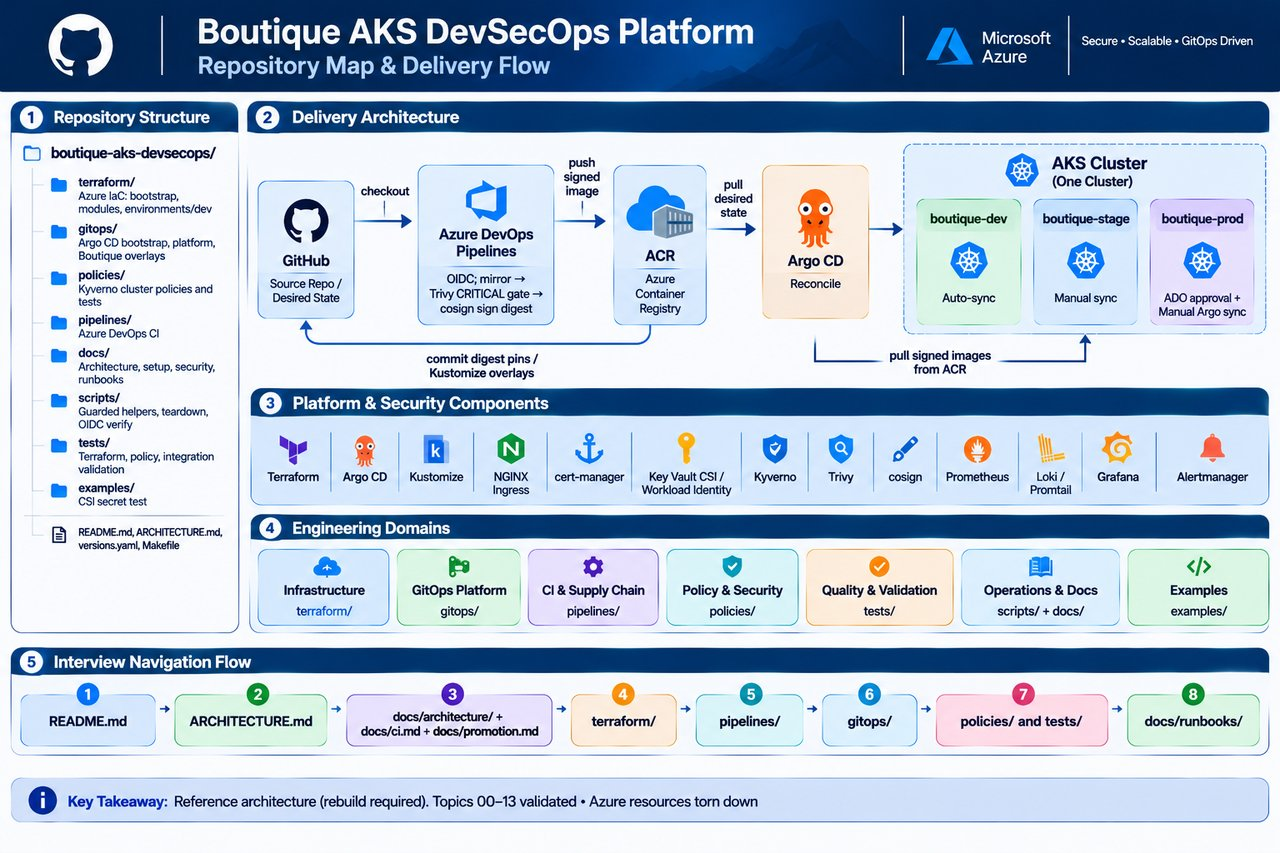
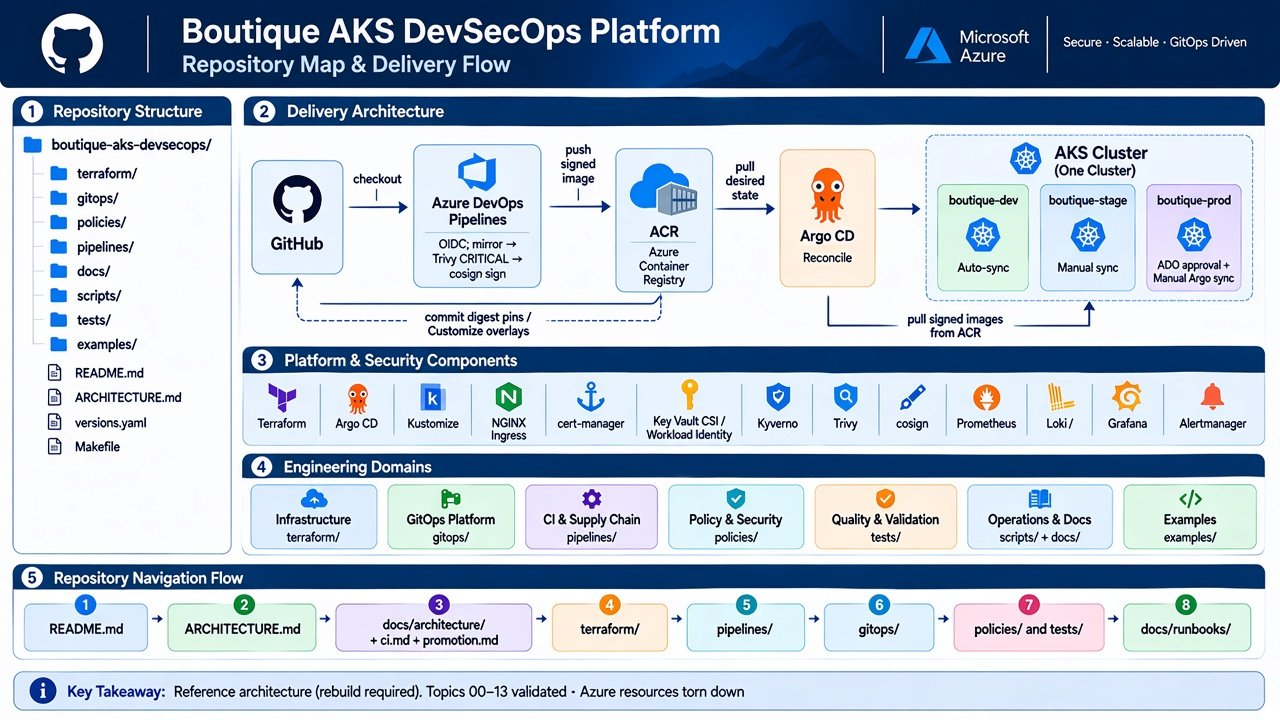
Polish docs after re-audit P1–P3.
Refresh the repository map navigation label, tighten ops/screenshot honesty, and trim decorative bold in setup and ADRs.

diff --git a/docs/setup/05-gitops-bootstrap.md b/docs/setup/05-gitops-bootstrap.md
@@ -1,10 +1,10 @@
 # 05 — GitOps Bootstrap
 
 Audience: Implementer
-**Estimated time:** 90 minutes
-**Prerequisites:** [03-cluster-resources.md](03-cluster-resources.md) ✅ complete (Topic 04 recommended before CI, not blocking GitOps)
-**Creates:** Argo CD v2.10.7, AppProjects, root app-of-apps, platform/apps root Applications
-**Related ADRs:** [0004](../adr/0004-argocd-gitops.md)
+Estimated time: 90 minutes
+Prerequisites: [03-cluster-resources.md](03-cluster-resources.md) ✅ complete (Topic 04 recommended before CI, not blocking GitOps)
+Creates: Argo CD v2.10.7, AppProjects, root app-of-apps, platform/apps root Applications
+Related ADRs: [0004](../adr/0004-argocd-gitops.md)
 
 ---
 
@@ -14,7 +14,7 @@ When this topic is complete, Argo CD runs in the `argocd` namespace, three AppPr
 
 ## Why this topic is required
 
-All platform services (ingress, cert-manager, Kyverno, monitoring) and Boutique overlays deploy via GitOps. Argo CD is the reconciliation engine. The app-of-apps pattern keeps bootstrap repeatable: one `root` Application manages `platform-root` and `apps-root` children.
+Platform and Boutique workloads reconcile from Git via Argo CD; the root app-of-apps bootstraps `platform-root` and `apps-root` in one repeatable pass.
 
 ---
 
@@ -233,7 +233,7 @@ Edit these files — use the **same** `repoURL` everywhere:
 - All `gitops/platform/*/Application.yaml` (and `kyverno/policies-application.yaml`)
 - All `gitops/apps/boutique/*-application.yaml` (Topics 10–12)
 
-**GitHub `repoURL` format:**
+GitHub `repoURL` format:
 
 ```text
 https://github.com/<GITHUB_ORG>/<REPO_NAME>
@@ -261,7 +261,7 @@ git push origin main
 
 ### Register private GitHub repo credentials (if repo is private)
 
-**Platform:** Argo CD UI or CLI
+Platform: Argo CD UI or CLI
 
 1. Settings → Repositories → Connect repo
 2. Choose VIA HTTPS
@@ -278,7 +278,7 @@ argocd repo add "https://github.com/<GITHUB_ORG>/<REPO_NAME>" \
   --username <github-user> --password <GITHUB_PAT>
 ```
 
-**Public repositories:** Argo CD can sync without credentials if the repo is public.
+Public repositories: Argo CD can sync without credentials if the repo is public.
 
 ### Validation
 
@@ -373,7 +373,7 @@ kubectl get pods -n argocd
 kubectl get appprojects,applications -n argocd
 ```
 
-**Success criteria:**
+Success criteria:
 
 - [ ] Argo CD v2.10.x running
 - [ ] AppProjects: platform, applications, monitoring
@@ -381,7 +381,7 @@ kubectl get appprojects,applications -n argocd
 - [ ] Repository connection successful
 - [ ] Admin UI accessible (port-forward)
 
-**Screenshot reference** (Healthy / Synced applications):
+Screenshot reference (lived run: Synced + Healthy filter; visible cards include `apps-root`, `platform-root`, `cert-manager-issuer`, `monitoring-extras`, `otel-collector`, `promtail` — all still defined under `gitops/`):
 
 ![Argo CD applications Healthy](../../assets/images/setup/05-argocd-applications-healthy.png)
 

diff --git a/docs/setup/09-ci-pipeline.md b/docs/setup/09-ci-pipeline.md
@@ -10,11 +10,11 @@ Related ADRs: [0005](../adr/0005-cosign-key-based-signing.md), [0009](../adr/000
 
 ## Topic goal
 
-When this topic is complete, your ADO CI pipeline mirrors all 11 Online Boutique v0.10.5 service images from Google Artifact Registry to ACR, runs Trivy with a **CRITICAL** severity gate, and cosign-signs each image **by digest** with `--tlog-upload=false`. The cosign **public key belongs in Git** (Kyverno policy `02-verify-image-signatures.yaml`) so admission can verify signed workloads in Topic 10.
+When this topic is complete, your ADO CI pipeline mirrors all 11 Online Boutique v0.10.5 service images from Google Artifact Registry to ACR, runs Trivy with a CRITICAL severity gate, and cosign-signs each image by digest with `--tlog-upload=false`. The cosign public key **belongs in Git** (Kyverno policy `02-verify-image-signatures.yaml`) so admission can verify signed workloads in Topic 10.
 
 ## Why this topic is required
 
-Kyverno enforces the ACR allowlist and signature verification at admission time. Images must land in your registry and be signed before Boutique deploys. This pipeline is the supply-chain gate between upstream Google images and your cluster.
+Kyverno admission requires mirrored, signed ACR images before Boutique deploys — this pipeline is the gate between upstream Google images and the cluster.
 
 ---
 
@@ -391,7 +391,7 @@ Full reference: [docs/troubleshooting/pipeline-failures.md](../troubleshooting/p
 - [ ] 11 Boutique v0.10.5 images in ACR, signed by digest
 - [ ] `digest-manifest` artifact published
 
-**Screenshot references:**
+Screenshot references:
 
 ADO pipeline green (mirror / Trivy / cosign):
 
@@ -405,7 +405,7 @@ ACR repositories with `frontend` `v0.10.5` and digest tags:
 
 ## Next step
 
-**Topic 10 — Boutique dev deploy:** GitOps manifests for dev namespace, image digests from ACR, ingress at `dev-boutique.biroltilki.art`.
+Topic 10 — Boutique dev deploy: GitOps manifests for dev namespace, image digests from ACR, ingress at `dev-boutique.biroltilki.art`.
 
 Guide: [10-boutique-dev.md](10-boutique-dev.md)
 

diff --git a/docs/adr/0012-loki-in-cluster-logging.md b/docs/adr/0012-loki-in-cluster-logging.md
@@ -6,22 +6,22 @@ Accepted
 
 ## Context
 
-Azure Log Analytics bills primarily on **ingestion volume**. For a solo test, Container Insights and platform diagnostic settings can cost more than the rest of the stack combined with little benefit — metrics and dashboards already run in-cluster via kube-prometheus-stack (Prometheus + Grafana).
+Azure Log Analytics bills primarily on ingestion volume. For a solo test, Container Insights and platform diagnostic settings can cost more than the rest of the stack combined with little benefit — metrics and dashboards already run in-cluster via kube-prometheus-stack (Prometheus + Grafana).
 
 The project needs centralized log search in Grafana for platform and Boutique troubleshooting without recurring Azure Monitor ingestion charges.
 
 ## Decision
 
 1. **Do not deploy** a Log Analytics workspace or Container Insights (`oms_agent`) in the default test path.
-2. Deploy **Grafana Loki** (SingleBinary) and **Promtail** via GitOps under `gitops/platform/monitoring/`.
-3. Configure Grafana with a **Loki datasource** alongside Prometheus.
+2. Deploy Grafana Loki (SingleBinary) and Promtail via GitOps under `gitops/platform/monitoring/`.
+3. Configure Grafana with a Loki datasource alongside Prometheus.
 4. Keep the `terraform/modules/diagnostics/` module in the repo for optional future use but **do not wire it** in `terraform/environments/dev/main.tf`.
 
 ## Consequences
 
 - **Positive:** No Log Analytics ingestion cost; unified logs + metrics in Grafana; logs stay in-cluster.
 - **Negative:** No Azure Portal audit trail for AKS API / ACR / Key Vault diagnostic logs; Loki uses cluster disk and node resources (~10Gi PVC + Promtail DaemonSet overhead).
-- **Operational:** Use Grafana **Explore → Loki** or `{namespace="boutique-dev"}` LogQL queries; `kubectl logs` remains valid for ad-hoc checks.
+- **Operational:** Use Grafana Explore → Loki or `{namespace="boutique-dev"}` LogQL queries; `kubectl logs` remains valid for ad-hoc checks.
 
 ## References
 

diff --git a/docs/setup/08-admission-policies.md b/docs/setup/08-admission-policies.md
@@ -1,10 +1,10 @@
 # 08 — Admission Policies (Kyverno)
 
 Audience: Implementer
-**Estimated time:** 120 minutes
-**Prerequisites:** [05-gitops-bootstrap.md](05-gitops-bootstrap.md) ✅ · [07-secrets-csi.md](07-secrets-csi.md) recommended (remove `csi-test` pod before enforce)
-**Creates:** Kyverno 1.12.6, ClusterPolicies (baseline five + Topic 17 SBOM attest Audit), policy test suite
-**Related ADRs:** [0003](../adr/0003-kyverno-admission.md), [0005](../adr/0005-cosign-key-based-signing.md)
+Estimated time: 120 minutes
+Prerequisites: [05-gitops-bootstrap.md](05-gitops-bootstrap.md) ✅ · [07-secrets-csi.md](07-secrets-csi.md) recommended (remove `csi-test` pod before enforce)
+Creates: Kyverno 1.12.6, ClusterPolicies (baseline five + Topic 17 SBOM attest Audit), policy test suite
+Related ADRs: [0003](../adr/0003-kyverno-admission.md), [0005](../adr/0005-cosign-key-based-signing.md)
 
 ---
 
@@ -14,7 +14,7 @@ When this topic is complete, Kyverno enforces cluster admission policies: ACR al
 
 ## Why this topic is required
 
-Admission control is the runtime enforcement layer for supply-chain decisions. **CI (Topic 09) signs images; Kyverno ensures only compliant workloads run.** Without admission, unsigned or public-registry images could deploy despite pipeline gates.
+Admission control is the runtime enforcement layer for supply-chain decisions: Topic 09 signs images; Kyverno ensures only compliant workloads run. Without admission, unsigned or public-registry images could deploy despite pipeline gates.
 
 ---
 
@@ -278,7 +278,7 @@ cd policies/tests && kyverno test kyverno-test.yaml
 kubectl apply -f policies/tests/resources/deny-non-acr-image.yaml --dry-run=server
 ```
 
-**Success criteria:**
+Success criteria:
 
 - [ ] Kyverno Healthy
 - [ ] Five ClusterPolicies active

diff --git a/docs/setup/00-prerequisites.md b/docs/setup/00-prerequisites.md
@@ -37,13 +37,11 @@ Do not use this guide for day-2 cluster operations — see [docs/operations/](..
 
 Required knowledge: basic shell, Git, and cloud CLI usage. No prior AKS experience required.
 
-Version control: GitHub is the sole Git remote (local clone, Argo CD, and ADO pipelines). Azure DevOps is for CI and OIDC only — not Azure Repos.
-
-Git remote note: GitOps manifests, Argo CD Applications, and pipeline checkout use GitHub. Connect your repository in Topic 00 Step 4; patch `<GITHUB_ORG>` / `<REPO_NAME>` in GitOps YAML during Topics 05–12. Azure DevOps (Topics 04 and 09) connects to the same GitHub repo for pipeline runs and digest promotion pushes.
+Version control: GitHub is the sole Git remote (clone, Argo CD, ADO pipelines, digest promotion). Azure DevOps is CI and OIDC only — not Azure Repos. Connect `origin` in Step 4; patch `<GITHUB_ORG>` / `<REPO_NAME>` in GitOps YAML in Topics 05–12.
 
 ## Architecture context
 
-This project provisions one AKS platform in `germanywestcentral` with node pools `Standard_D2s_v6` (system) and `Standard_D4s_v6` (user). Tool versions are pinned in [versions.yaml](../../versions.yaml) so Terraform, Kubernetes, and pipeline stages stay compatible.
+One AKS platform in `germanywestcentral` (`Standard_D2s_v6` system, `Standard_D4s_v6` user pools) with versions pinned in [versions.yaml](../../versions.yaml). Your workstation drives every CLI step from Topic 01 — no pre-provisioned cluster.
 
 ```mermaid
 flowchart LR
@@ -52,8 +50,6 @@ flowchart LR
     REPO -->|Topic 01+| TF[Terraform state]
     TF --> AZURE
 ```
-
-Your machine drives every CLI step. Nothing here assumes a pre-provisioned cluster — you build it from Topic 01 onward.
 
 ---
 

diff --git a/docs/adr/0015-falco-runtime-detection.md b/docs/adr/0015-falco-runtime-detection.md
@@ -8,12 +8,12 @@ Accepted (scaffold — apply with Topic 18)
 
 The lived reference has no runtime threat detection. Package 6 / Phase 20 needs a teachable control that fits the reference: single cluster, cost-conscious, in-cluster logs ([ADR-0012](0012-loki-in-cluster-logging.md)).
 
-Microsoft Defender for Containers is Azure-native but typically pairs with **Log Analytics** (ingestion cost) and was previously only ignored for Terraform drift — not provisioned as a first-class module.
+Microsoft Defender for Containers is Azure-native but typically pairs with Log Analytics (ingestion cost) and was previously only ignored for Terraform drift — not provisioned as a first-class module.
 
 ## Decision
 
-1. **Primary:** Deploy **Falco** via Argo CD (`gitops/platform/falco/`) using the **modern eBPF** driver, JSON logs to stdout → Promtail → Loki (same path as other platform logs).
-2. **Secondary:** Document **Defender for Containers** as an **opt-in** Azure control (subscription/portal or future TF); do **not** enable it by default in `terraform/environments/dev`.
+1. Primary: Deploy Falco via Argo CD (`gitops/platform/falco/`) using the modern eBPF driver, JSON logs to stdout → Promtail → Loki (same path as other platform logs).
+2. Secondary: Document Defender for Containers as an **opt-in** Azure control (subscription/portal or future TF); do **not** enable it by default in `terraform/environments/dev`.
 3. Keep AKS `lifecycle.ignore_changes` on `microsoft_defender` so subscription-level Defender does not fight Terraform when left unmanaged.
 
 ## Consequences

diff --git a/docs/adr/0013-scaffold-first-phase15.md b/docs/adr/0013-scaffold-first-phase15.md
@@ -6,18 +6,18 @@ Accepted
 
 ## Context
 
-Setup Topics **00–13** were lived and the Azure test torn down. The repo remains a reference platform. Fuller DevSecOps controls (PR CI, NetworkPolicies, IaC scan, SBOM/attestations, runtime security, namespace/KV hardening, optional DAST) were deferred or skipped (Roadmap Phase 13).
+Setup Topics 00–13 were lived and the Azure test torn down. The repo remains a reference platform. Fuller DevSecOps controls (PR CI, NetworkPolicies, IaC scan, SBOM/attestations, runtime security, namespace/KV hardening, optional DAST) were deferred or skipped (Roadmap Phase 13).
 
 Rebuilding Azure solely to author those features is costly and unnecessary for documentation and file layout.
 
 ## Decision
 
-Deliver Phase **15–22** in two modes:
+Deliver Phase 15–22 in two modes:
 
-1. **Scaffold first** — commit pipelines, policies, GitOps/TF stubs, setup Topics **14–20**, and ADRs without `terraform apply` or a live cluster.
+1. **Scaffold first** — commit pipelines, policies, GitOps/TF stubs, setup Topics 14–20, and ADRs without `terraform apply` or a live cluster.
 2. **Apply later** — after a future rebuild of Topics 00–12, execute Topics 14–20 and mark live validation separately.
 
-Roadmap Phase 13 remains **skipped** historically; Phase **15+** supersedes that hardening backlog.
+Roadmap Phase 13 remains skipped historically; Phase 15+ supersedes that hardening backlog.
 
 ## Consequences
 

diff --git a/docs/adr/0016-namespace-kv-hardening.md b/docs/adr/0016-namespace-kv-hardening.md
@@ -10,9 +10,9 @@ Lived-reference Boutique namespaces lack Pod Security Admission labels and Resou
 
 ## Decision
 
-1. Label `boutique-*` namespaces with **Pod Security Admission `enforce=baseline`** (aligns with Kyverno baseline); **warn/audit=`restricted`**.
-2. Apply shared **LimitRange** + **ResourceQuota** via Boutique base hardening manifests (all overlays inherit).
-3. Extend the Key Vault module with optional **`purge_protection_enabled`** and **`network_acls`** (default **Allow** / purge **false** so rebuild+teardown stay easy). Topic 19 documents flipping to **Deny** + AKS subnet allow-list after enabling **Microsoft.KeyVault** service endpoints on the AKS subnet.
+1. Label `boutique-*` namespaces with Pod Security Admission `enforce=baseline` (aligns with Kyverno baseline); warn/audit=`restricted`.
+2. Apply shared LimitRange + ResourceQuota via Boutique base hardening manifests (all overlays inherit).
+3. Extend the Key Vault module with optional `purge_protection_enabled` and `network_acls` (default Allow / purge false so rebuild+teardown stay easy). Topic 19 documents flipping to **Deny** + AKS subnet allow-list after enabling Microsoft.KeyVault service endpoints on the AKS subnet.
 4. When Deny ACL / purge protection are enabled in a long-lived environment, remove the matching Checkov skip IDs.
 
 ## Consequences

diff --git a/docs/adr/0011-aks-node-vm-sku.md b/docs/adr/0011-aks-node-vm-sku.md
@@ -8,15 +8,15 @@ Accepted (amended 2026-07-15 — Dsv6 test fallback)
 
 Platform runs in EU Central. VM SKUs must be available in the target region for this subscription. Verified via `az vm list-skus` (2026-07-14).
 
-During Topic 03 apply, subscription **Standard DSv5 Family vCPU quota** in `germanywestcentral` was **0** (`ErrCode_InsufficientVCPUQuota`), while **Standard Dsv6 Family** quota was **10**. SKUs remain available in-region for both families.
+During Topic 03 apply, subscription Standard DSv5 Family vCPU quota in `germanywestcentral` was 0 (`ErrCode_InsufficientVCPUQuota`), while Standard Dsv6 Family quota was 10. SKUs remain available in-region for both families.
 
 ## Decision
 
 | Setting | Value |
 |---------|-------|
 | Region | `germanywestcentral` |
-| System pool | `Standard_D2s_v6` (1 node, fixed) — **test default when DSv5 quota is 0** |
-| User pool | `Standard_D4s_v6` (1–3 nodes, autoscaler) — **test default when DSv5 quota is 0** |
+| System pool | `Standard_D2s_v6` (1 node, fixed) — test default when DSv5 quota is 0 |
+| User pool | `Standard_D4s_v6` (1–3 nodes, autoscaler) — test default when DSv5 quota is 0 |
 | Preferred (when quota allows) | `Standard_D2s_v5` / `Standard_D4s_v5` per original reference design |
 
 ## Consequences

diff --git a/docs/setup/07-secrets-csi.md b/docs/setup/07-secrets-csi.md
@@ -1,10 +1,10 @@
 # 07 — Secrets Store CSI
 
 Audience: Implementer
-**Estimated time:** 75 minutes
-**Prerequisites:** [03-cluster-resources.md](03-cluster-resources.md) ✅ · [05-gitops-bootstrap.md](05-gitops-bootstrap.md) ✅ · [06-ingress-tls.md](06-ingress-tls.md) recommended
-**Creates:** CSI driver 1.4.0, Azure provider 1.5.0, test SecretProviderClass + pod in `csi-test`
-**Related ADRs:** — (see [07-security-architecture.md](../architecture/07-security-architecture.md))
+Estimated time: 75 minutes
+Prerequisites: [03-cluster-resources.md](03-cluster-resources.md) ✅ · [05-gitops-bootstrap.md](05-gitops-bootstrap.md) ✅ · [06-ingress-tls.md](06-ingress-tls.md) recommended
+Creates: CSI driver 1.4.0, Azure provider 1.5.0, test SecretProviderClass + pod in `csi-test`
+Related ADRs: — (see [07-security-architecture.md](../architecture/07-security-architecture.md))
 
 ---
 
@@ -269,7 +269,7 @@ kubectl get secretproviderclass -n csi-test
 kubectl exec -n csi-test csi-test-pod -- test -f /mnt/secrets/csi-test-secret
 ```
 
-**Success criteria:**
+Success criteria:
 
 - [ ] CSI driver + Azure provider Running
 - [ ] Test pod mounts `csi-test-secret`

diff --git a/docs/setup/01-terraform-bootstrap.md b/docs/setup/01-terraform-bootstrap.md
@@ -14,9 +14,7 @@ When you finish this topic, Azure hosts a dedicated remote state backend (resour
 
 ## Why this topic is required
 
-Terraform state holds resource IDs, dependencies, and secrets metadata. Local state files are easy to lose, hard to share safely, and they get in the way of team workflows. Remote state in Azure Blob Storage with versioning gives you durable, recoverable state before Topic 02 creates any AKS or networking resources.
-
-Without this topic, `environments/dev/` cannot persist state across machines or survive laptop loss.
+Remote Blob state (versioning on) must exist before Topic 02 creates AKS or networking — otherwise `environments/dev/` cannot persist durable state across machines.
 
 ---
 
@@ -42,7 +40,7 @@ Understand what the bootstrap stack creates and confirm naming before any `apply
 
 ### Why this step is required
 
-Storage account names are globally unique and immutable. A failed apply due to name collision wastes time; wrong names in `backend.tf` break `environments/dev` init.
+Storage account names are globally unique — a collision or wrong name in `backend.tf` breaks bootstrap and dev `init`.
 
 ### Commands
 

diff --git a/docs/setup/06-ingress-tls.md b/docs/setup/06-ingress-tls.md
@@ -1,10 +1,10 @@
 # 06 — Ingress + TLS
 
 Audience: Implementer
-**Estimated time:** 120 minutes (certificate issuance may add 5–15 min)
-**Prerequisites:** [05-gitops-bootstrap.md](05-gitops-bootstrap.md) ✅ complete · [02-azure-foundation.md](02-azure-foundation.md) DNS delegated
-**Creates:** NGINX Ingress, cert-manager, Let's Encrypt ClusterIssuer (DNS-01), Argo CD HTTPS ingress
-**Related ADRs:** — (implements [06-network-design.md](../architecture/06-network-design.md))
+Estimated time: 120 minutes (certificate issuance may add 5–15 min)
+Prerequisites: [05-gitops-bootstrap.md](05-gitops-bootstrap.md) ✅ complete · [02-azure-foundation.md](02-azure-foundation.md) DNS delegated
+Creates: NGINX Ingress, cert-manager, Let's Encrypt ClusterIssuer (DNS-01), Argo CD HTTPS ingress
+Related ADRs: — (implements [06-network-design.md](../architecture/06-network-design.md))
 
 ---
 
@@ -344,7 +344,7 @@ dig +short argocd-boutique.biroltilki.art
 curl -sI "https://argocd-boutique.biroltilki.art" | head -5
 ```
 
-**Success criteria:**
+Success criteria:
 
 - [ ] Ingress LB IP assigned
 - [ ] DNS A record resolves
